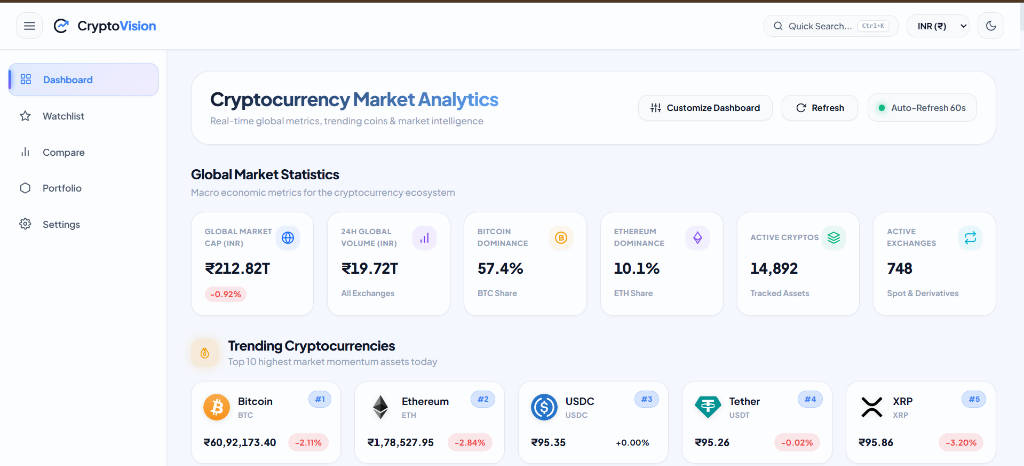
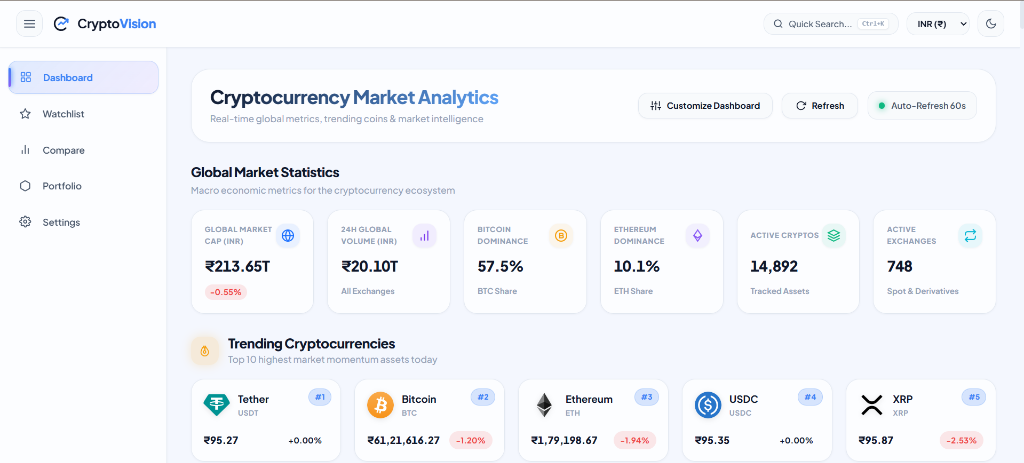
fix project layout

diff --git a/src/components/sections/projects.tsx b/src/components/sections/projects.tsx
@@ -9,11 +9,20 @@ import {
   BookOpen,
   CheckCircle2,
   Sparkles,
+  Maximize2,
 } from "lucide-react";
 import { SiGithub } from "react-icons/si";
 import { Badge } from "@/components/ui/badge";
 import { Button } from "@/components/ui/button";
 import projects, { FeaturedProject } from "@/data/projects";
+import {
+  Dialog,
+  DialogContent,
+  DialogTrigger,
+  DialogTitle,
+  DialogHeader,
+  DialogDescription,
+} from "@/components/ui/dialog";
 
 export default function ProjectsSection() {
   return (
@@ -75,18 +84,47 @@ export default function ProjectsSection() {
                   isEven ? "lg:flex-row-reverse" : "lg:flex-row"
                 } items-stretch gap-8 lg:gap-12`}
               >
-                {/* Large Project Image Container */}
-                <div className="w-full lg:w-1/2 relative flex items-center justify-center rounded-2xl overflow-hidden border border-white/10 bg-zinc-950/80 shadow-inner group/img">
-                  <div className="relative w-full aspect-[16/10] overflow-hidden">
-                    <Image
-                      src={project.src}
-                      alt={project.title}
-                      fill
-                      className="object-cover object-top group-hover/img:scale-105 transition-transform duration-700 ease-out"
-                    />
-                    <div className="absolute inset-0 bg-gradient-to-t from-zinc-950/90 via-transparent to-transparent opacity-60" />
-                  </div>
-                </div>
+                {/* Large Project Image Container with Full Image Lightbox */}
+                <Dialog>
+                  <DialogTrigger asChild>
+                    <div className="w-full lg:w-1/2 flex items-center justify-center">
+                      <div className="w-full relative rounded-2xl overflow-hidden border border-white/10 shadow-2xl group/img cursor-pointer">
+                        <div className="relative w-full h-auto overflow-hidden rounded-2xl">
+                          <Image
+                            src={project.src}
+                            alt={project.title}
+                            width={1200}
+                            height={675}
+                            className="w-full h-auto block object-contain group-hover/img:scale-105 transition-transform duration-700 ease-out"
+                          />
+                          {/* Subtle hover overlay hint */}
+                          <div className="absolute inset-0 bg-black/40 opacity-0 group-hover/img:opacity-100 transition-opacity duration-300 flex items-center justify-center gap-2 text-xs font-medium text-white backdrop-blur-[2px]">
+                            <Maximize2 className="w-4 h-4 text-blue-400" />
+                            <span>Click to view full image</span>
+                          </div>
+                        </div>
+                      </div>
+                    </div>
+                  </DialogTrigger>
+
+                  <DialogContent className="max-w-[95vw] sm:max-w-[90vw] max-h-[92vh] bg-zinc-950/95 border border-white/15 p-4 sm:p-6 rounded-2xl flex flex-col items-center justify-center overflow-hidden">
+                    <DialogHeader className="w-full mb-3 text-left">
+                      <DialogTitle className="text-white text-lg font-semibold flex items-center gap-2 font-display">
+                        {project.title}
+                      </DialogTitle>
+                      <DialogDescription className="text-xs text-zinc-400">
+                        {project.category} screenshot
+                      </DialogDescription>
+                    </DialogHeader>
+                    <div className="relative w-full h-[78vh] flex items-center justify-center overflow-hidden bg-zinc-950/50 rounded-xl p-2">
+                      <img
+                        src={project.src}
+                        alt={project.title}
+                        className="max-w-full max-h-full object-contain rounded-lg shadow-2xl"
+                      />
+                    </div>
+                  </DialogContent>
+                </Dialog>
 
                 {/* Project Details Content */}
                 <div className="w-full lg:w-1/2 flex flex-col justify-between space-y-6">

diff --git a/src/app/projects/page.tsx b/src/app/projects/page.tsx
@@ -84,7 +84,7 @@ function Page() {
                         <Image
                           src={image}
                           alt={project.name}
-                          className="w-[300px] h-[200px] object-cover"
+                          className="w-[300px] h-[200px] object-contain p-1"
                           width={300}
                           height={200}
                         />
